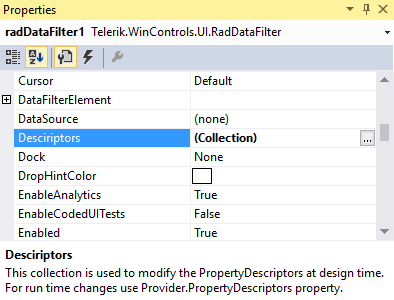
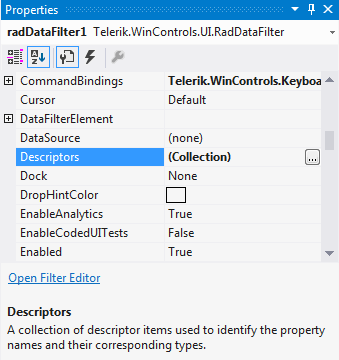
DataFilter dialog article

diff --git a/datafilter/properties-methods-events.md b/datafilter/properties-methods-events.md
@@ -1,0 +1,55 @@
+---
+title: Properties, Methods and Events
+page_title: Properties, Methods and Events | RadDataFilter
+description: This article show what RadDataFilter represents and its key features. 
+slug: winforms/datafilter/properties-methods-events
+tags: data, filter
+published: True
+position: 7
+---
+
+# Properties
+
+|Property|Description|
+|----|----|
+|**AutoGenerateDescriptorItems**|Gets or sets a value indicating whether descriptor items are created automatically when the DataSource is set.|
+|**Descriptors**|A collection of descriptor items used to identify the property names and their corresponding types.|
+|**DataSource**|Gets or set the source collection.|
+|**DataFilterElement**|Gets the main RadDataFilter's element.|
+|**Expression**|Gets or sets the filter expression.|
+|**SortFieldNames**|Gets or sets a value indicating whether the field names  will be sorted in the filter criterion's drop down.|
+|**Nodes**|Gets the collection of filter nodes that are assigned to the data filter control.|
+|**AllowDragDrop**| Gets or sets a value indicating whether drag and drop operation with RadDataFilter nodes is enabled.|
+|**AllowAdd**|Gets or sets a value indicating whether adding new nodes is allowed.|
+|**AllowRemove**|Gets or sets a value indicating whether removing nodes is allowed.|
+|**AllowEdit**|Gets or sets a value indicating whether editing is allowed.|
+|**ItemHeight**|Gets or sets the height of the item.|
+|**ShowLines**|Gets or sets a value indicating whether the nodes lines are shown.|
+|**LineColor**|Gets or sets the color of the line.|
+|**LineStyle**|Gets or sets the line style.|
+|**ToggleMode**|Gets or sets a value indicating the default tree view toggle mode.|
+
+# Methods
+
+|Method|Description|
+|----|----|
+|**ApplyFilter**|Forces the filter to be applied to the source collection.|
+
+# Events
+
+|Event|Description|
+|----|----|
+|**EditorRequired**|Fires when a specific filter node's element is about to be edited and the editor for it is required.|
+|**Editing**|Occurs when initializing the active editor. If the event is canceled, no further action takes place.|
+|**EditorInitialized**|Fires when the editor has already been initialized. Here is the appropriate place if you need to customize the editor.|
+|**Edited**|Occurs after the filter node is edited.|
+|**NodeFormatting**|Occurs when the filter node changes its state and needs to be formatted.|
+
+
+# See Also
+
+* [Properties](http://docs.telerik.com/devtools/winforms/api/html/properties_t_telerik_wincontrols_ui_raddatafilter.htm)
+* [Methods](http://docs.telerik.com/devtools/winforms/api/html/methods_t_telerik_wincontrols_ui_raddatafilter.htm)
+* [Events](http://docs.telerik.com/devtools/winforms/api/html/events_t_telerik_wincontrols_ui_raddatafilter.htm)
+
+ 

diff --git a/datafilter/datafilter-dialog.md b/datafilter/datafilter-dialog.md
@@ -1,0 +1,47 @@
+---
+title: DataFilter Dialog
+page_title: DataFilter Dialog | RadDataFilter
+description: This article show what RadDataFilter represents and its key features. 
+slug: winforms/datafilter/overview
+tags: data, filter
+published: True
+position: 4
+---
+
+# DataFilter Dialog
+
+**RadDataFilterDialog** can be used as a standalone dialog in order to provide the user an easy way to build an expression without the necessity to have a **RadDataFilter** on the form. 
+
+You can find below a sample code snippet how to show the filter dialog and get its expression after the dialog is closed:
+
+#### Showing the RadDataFilterDialog
+
+{{source=..\SamplesCS\DataFilter\DataFilterGettingStarted.cs region=FilterDialog}} 
+{{source=..\SamplesVB\DataFilter\DataFilterGettingStarted.vb region=FilterDialog}}
+
+````C#
+RadDataFilterDialog dialog = new RadDataFilterDialog();
+dialog.DataSource = this.ordersBindingSource;
+dialog.DataFilter.Expression = "[OrderID] > 10300 AND [EmployeeID] = 2";
+dialog.ShowDialog();
+string expression = dialog.DataFilter.Expression;
+
+````
+````VB.NET
+Dim dialog As New RadDataFilterDialog()
+dialog.DataSource = Me.ordersBindingSource
+dialog.DataFilter.Expression = "[OrderID] > 10300 AND [EmployeeID] = 2"
+dialog.ShowDialog()
+Dim expression As String = dialog.DataFilter.Expression
+
+```` 
+
+{{endregion}}
+
+If you need to customize the performed action on one of the buttons in the filter dialog you can create a derivative of the **RadDataFilterDialog** and override the **OnOKButtonClick**, **OnCancelButtonClick** or **OnApplyButtonClick** methods.
+
+# See Also
+
+* [Properties, Methods and Events]({%slug winforms/datafilter/properties-methods-events%})	
+* [Getting Started]({%slug winforms/datafilter/getting-started%})	
+ 

diff --git a/datafilter/editing/events.md b/datafilter/editing/events.md
@@ -22,6 +22,10 @@ The **EditorRequired** event is fired when a specific filter node's element is a
 
 This is the appropriate place to replace the default editor and specify what editor to be used.
 
+## Editing
+
+The RadDataFilter.**Editing** event occurs when initializing the active editor. If the event is canceled, no further action takes place.
+
 ## EditorInitialized
 
 The **EditorInitialized** event is fired when the editor has already been initialized. Here is the appropriate place if you need to customize the editor.
@@ -115,6 +119,10 @@ End Sub
 ```` 
 
 {{endregion}}
+
+## Edited
+
+The RadDataFilter.**Edited** event occurs after the filter node is edited.
 
 # See Also
 
